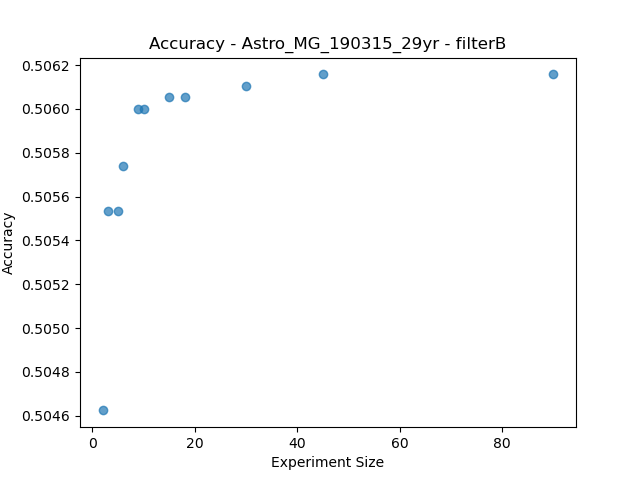
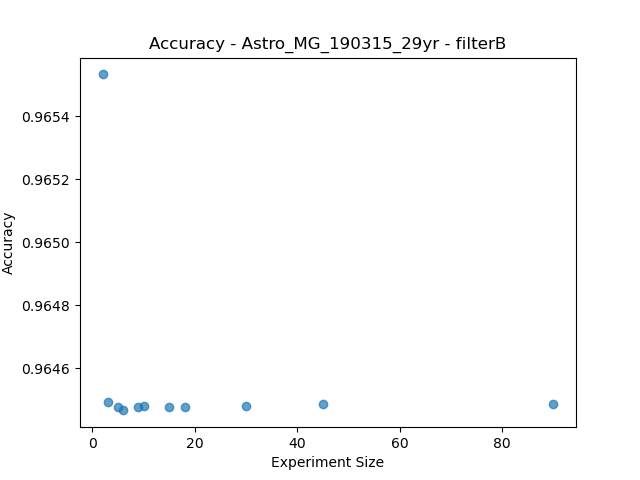
new plots

diff --git a/experiments/2023-07-25/plot_pseudo_bulk_results.py b/experiments/2023-07-25/plot_pseudo_bulk_results.py
@@ -39,8 +39,8 @@ def create_plots(batch, filter_type):
         print(df)
         FN = df["logFC"].isna().sum()
         FP = df["LogFC_ground_truth"].isna().sum()
-        TP = df.shape[0] - FN
-        TN = df.shape[0] - FP
+        TP = df.shape[0] - FN - FP
+        TN = 514**2 - FP - FN - TP
         accuracy = (TP + TN) / (TP + TN + FP + FN)
         print(FN, FP, TP, TN, accuracy)
         # Create a new DataFrame with the row data
